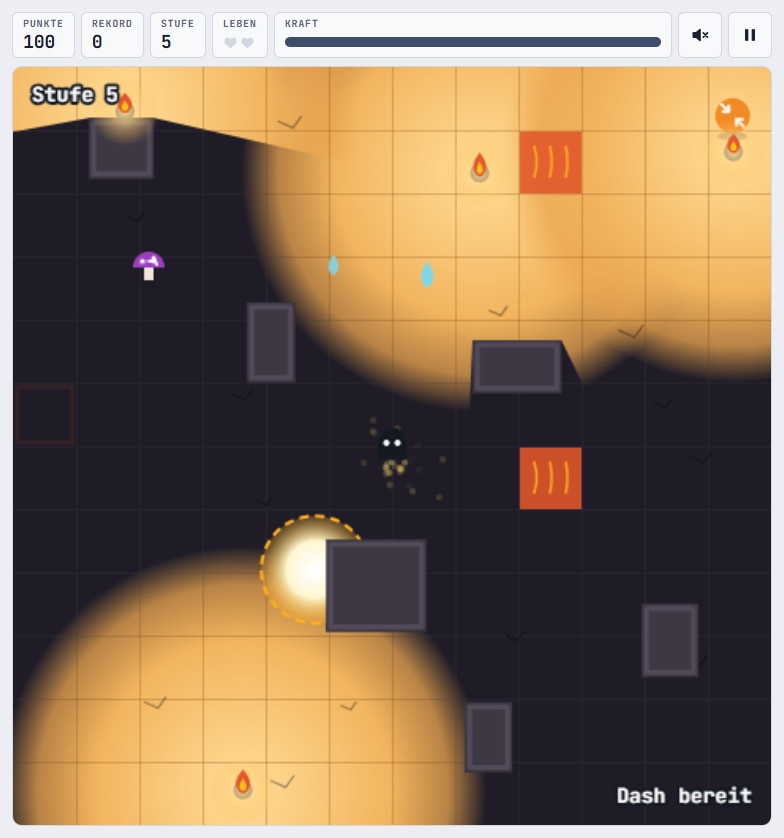
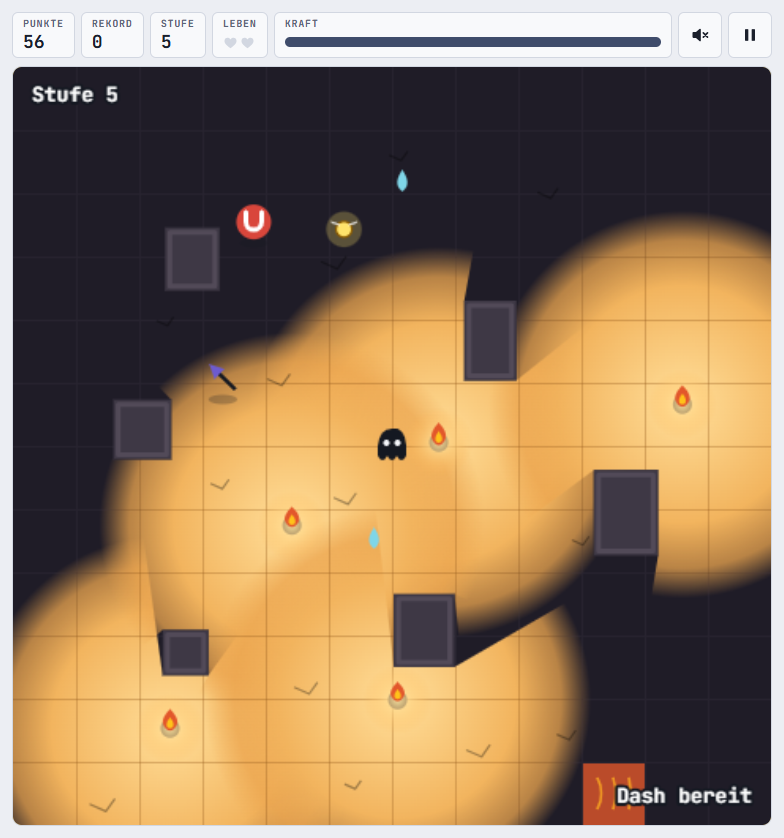
Keller ist jetzt die schwerste Karte
- 4 bis 6 Fackeln statt 3 bis 5, schneller, kleinerer Schein (125)
- eine Jagdfackel läuft der Figur hinterher
- Licht brennt 30 % stärker, im Schatten erholt man sich 30 % langsamer

diff --git a/js/maps.js b/js/maps.js
@@ -14,9 +14,9 @@ const MAPS = [
     pal: { lit: '#EFAA76', tile: '#DC9461', shade: '#4B3B55', shadeTile: '#43344C', top: '#3A2D33', edge: '#5A4440' },
     wind: 44, chimneys: true, pillars: 8, cloudF: 0.45 },
   { id: 'cellar', icon: 'flame', name: ['Keller', 'Cellar'], unlock: { stat: 'bosses', n: 12 },
-    desc: ['Keine Sonne, nur wandernde Fackeln. Ihr Licht brennt, und Säulen werfen Schatten von ihnen weg.', 'No sun, only wandering torches. Their light burns, and pillars cast shadows away from them.'],
+    desc: ['Die schwerste Karte. Fackeln wandern durch den ganzen Raum, eine jagt dich. Ihr Licht brennt stärker, und du erholst dich langsamer.', 'The hardest map. Torches roam the whole room and one hunts you. Their light burns harder and you recover more slowly.'],
     pal: { lit: '#F2B45E', tile: '#DE9E4A', shade: '#1F1C27', shadeTile: '#27232F', top: '#3E3845', edge: '#524A58' },
-    dark: true },
+    dark: true, burnF: 1.3, regenF: 0.7 },
 ];
 const MAP_BY = Object.fromEntries(MAPS.map(m => [m.id, m]));
 const SUN_RULES = ['twosun', 'summer', 'night', 'clouds'];
@@ -90,7 +90,7 @@ function initMap() {
   const m = S.map;
   S.roofA = rand(0, TAU); S.gust = 0;
   S.torches = [];
-  if (m.dark) for (let i = 0; i < 3; i++) S.torches.push(newTorch(i));
+  if (m.dark) for (let i = 0; i < 4; i++) S.torches.push(newTorch(i));
   // Dekor: Blumen im Garten, Risse im Keller (nur optisch)
   S.deco = [];
   const n = m.id === 'garden' ? 26 : m.id === 'cellar' ? 14 : 0;
@@ -98,7 +98,7 @@ function initMap() {
 }
 // Fackeln wandern auf verschlungenen Bahnen quer durch den Keller, auch durch die Mitte. Es gibt keinen Platz, der immer dunkel bleibt.
 function newTorch(i) {
-  const T = { s: 0, dir: i % 2 ? 1 : -1, r: 150, ph: fx(0, 6), x: 0, y: 0,
+  const T = { s: 0, dir: i % 2 ? 1 : -1, r: 125, ph: fx(0, 6), x: 0, y: 0,
               wx: 1 + (i % 3) * 0.35, wy: 1.3 + ((i + 1) % 3) * 0.3, px: i * 2.1, py: i * 1.3 + 0.7 };
   // nicht direkt neben der Figur anfangen
   for (let k = 0; k < 40; k++) { T.s = fx(0, 40); torchPos(T); if (!S.p || Math.hypot(T.x - S.p.x, T.y - S.p.y) > 210) break; }
@@ -112,9 +112,16 @@ function torchPos(T) {
 function updateMap(dt, sunDt, playing) {
   const m = S.map;
   if (m.dark) {
-    const want = 3 + (S.level >= 3 ? 1 : 0) + (S.level >= 6 ? 1 : 0);
+    const want = 4 + (S.level >= 2 ? 1 : 0) + (S.level >= 5 ? 1 : 0);
     while (S.torches.length < want) S.torches.push(newTorch(S.torches.length));
-    for (const T of S.torches) { T.s += T.dir * (0.13 + lv() * 0.018) * sunDt; torchPos(T); }
+    for (const T of S.torches) {
+      if (T === S.torches[0] && playing) {   // die Jagdfackel läuft dir hinterher, Säulen zwischen euch helfen
+        const dx = S.p.x - T.x, dy = S.p.y - T.y, d = Math.hypot(dx, dy) || 1, v = (40 + lv() * 5) * sunDt;
+        if (d > 30) { T.x += dx / d * v; T.y += dy / d * v; }
+        continue;
+      }
+      T.s += T.dir * (0.17 + lv() * 0.024) * sunDt; torchPos(T);
+    }
   }
   if (m.wind) {
     S.roofA += dt * 0.12;

diff --git a/js/game.js b/js/game.js
@@ -911,10 +911,10 @@ function update(dt) {
     const da = Math.abs(((a - S.beam.a) % TAU + TAU + Math.PI) % TAU - Math.PI);
     if (da < 0.13) burn += 55;
   }
-  burn *= S.diff.burn;
+  burn *= S.diff.burn * (S.map.burnF || 1);
   if (S.grace > 0) burn = 0;
   S.burn = burn;
-  S.energy += (burn > 0 ? -burn : 7 * (1 + 0.5 * up('regen'))) * dt;
+  S.energy += (burn > 0 ? -burn : 7 * (S.map.regenF || 1) * (1 + 0.5 * up('regen'))) * dt;
   S.energy = Math.max(0, Math.min(maxEnergy(), S.energy));
   if (burn > 0 && Math.random() < dt * (20 + burn * 0.4))
     S.parts.push({ x: S.p.x + fx(-6, 6), y: S.p.y - 4, vx: fx(-8, 8), vy: fx(-45, -20), life: fx(0.4, 0.8) });

diff --git a/README.md b/README.md
@@ -117,7 +117,7 @@ Jede Karte ändert die Regeln ein wenig und hat eigene Farben und eigene Musik.
 | **Innenhof** | Die Sonne wandert im Kreis, eckige Säulen werfen lange Schatten. | Von Anfang an |
 | **Garten** | Runde Bäume werfen weiche Schatten. Es gibt mehr Tau, aber die Käfer sind flinker. | Erreiche Stufe 4 |
 | **Dach** | Der Wind schiebt dich ständig über die Ziegel. Viele Schornsteine, viele Wolken. | Besiege 5 Bosse |
-| **Keller** | Keine Sonne, nur Fackeln, die quer durch den Raum wandern, auch durch die Mitte. Ihr Licht brennt, und die Säulen werfen Schatten von den Fackeln weg. | Besiege 12 Bosse |
+| **Keller** | Die schwerste Karte. Keine Sonne, nur Fackeln, die quer durch den Raum wandern. Eine davon jagt dich. Ihr Licht brennt stärker, und im Schatten erholst du dich langsamer. | Besiege 12 Bosse |
 
 Die tägliche und die wöchentliche Herausforderung dürfen jede Karte benutzen, auch wenn du sie noch nicht freigeschaltet hast.
 
